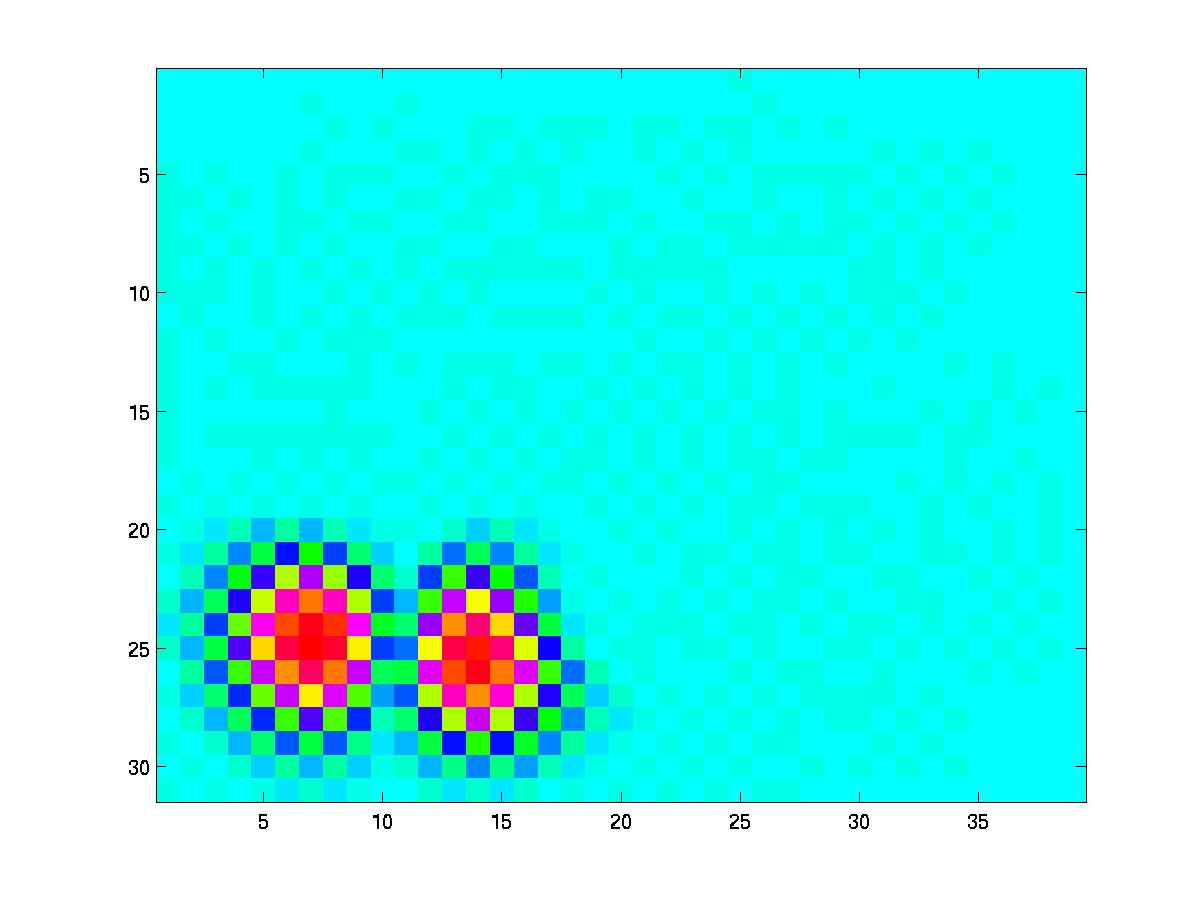
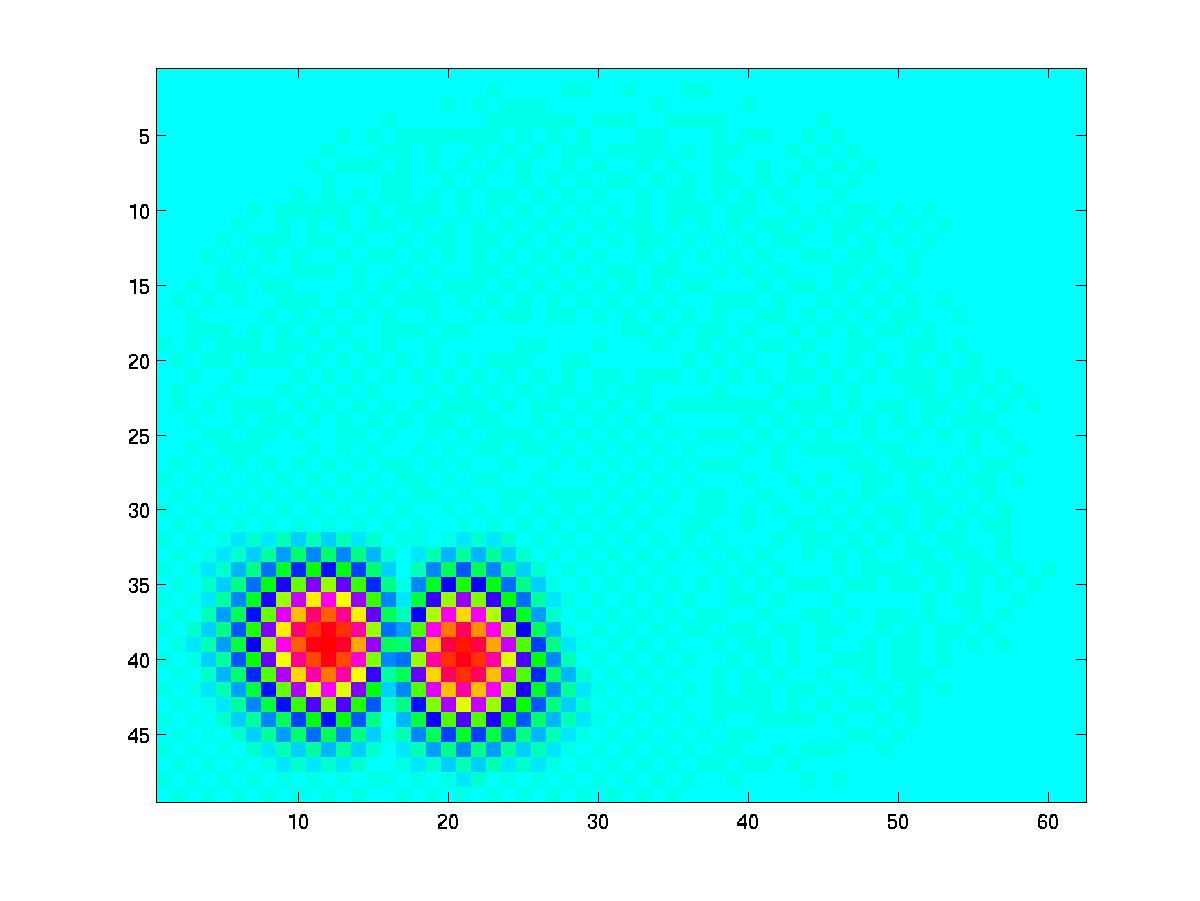
Reordering and Image distortion

diff --git a/Registration/register.m b/Registration/register.m
@@ -1,3 +1,4 @@
+
 close all;
 clear all;
 
@@ -17,8 +18,12 @@ if size(img1,3)==3
     img2 = rgb2gray(img2);
 end
 img2 = imresize(img2,size(img1));
+
+%For distortimg image
+img2 = distort_image(img1,2);
+
 %Subsample the image
-subsampleRate = 8;
+subsampleRate = 5;
 img1 = sample_img(img1,subsampleRate);
 img2 = sample_img(img2,subsampleRate);
 
@@ -32,10 +37,15 @@ K=10;
 %Get EigenValues and EigenVectors for each laplacian
 [eig1,vals1] = eigs(lap1,K);
 eig1 = real(eig1);
-eig1 = process_eig(eig1);
+
 [eig2,vals2] = eigs(lap2,K);
 eig2 = real(eig2);
+
+% Scale and Reorder the vectors
+eig1 = process_eig(eig1);
 eig2 = process_eig(eig2);
+cost = get_cost(eig1,eig2,img1,img2);
+[eig1,eig2]=rearrange(eig1,eig2,cost);
 
 [X1,Y1] = meshgrid(1:size(img1,2),1:size(img1,1));
 [X2,Y2] = meshgrid(1:size(img2,2),1:size(img2,1));

diff --git a/Registration/get_cost.m b/Registration/get_cost.m
@@ -1,2 +1,12 @@
-function cost = get_cost(eig1,eig2)
+function cost = get_cost(eig1,eig2,img1,img2)
+    for i=1:size(eig1,2)
+        for j=1:size(eig2,2)
+            histo1=hist3([double(img1(:)),eig1(:,i)],[20,20]);
+            histo2=hist3([double(img2(:)),eig2(:,j)],[20,20]);
+            histo3=hist3([double(img2(:)),-eig2(:,j)],[20,20]);
+            cost1=sqrt(mean((eig1(:,i)-eig2(:,j)).^2))+sqrt(sum((histo1(:)-histo2(:)).^2)/(length(img1(:)).^2));
+            cost2=sqrt(mean((eig1(:,i)+eig2(:,j)).^2))+sqrt(sum((histo1(:)-histo3(:)).^2)/(length(img1(:)).^2));
+            cost(i,j)=min(cost1,cost2);
+        end
+    end
 end

diff --git a/Registration/rearrange.m b/Registration/rearrange.m
@@ -1,0 +1,7 @@
+function [vec1,vec2]=rearrange(eig1,eig2,cost)
+    vec1=eig1;
+    for i=1:size(eig2,2)
+        [~,idx]=min(cost(i,:));
+        vec2(:,i)=eig2(:,idx)
+    end
+end
